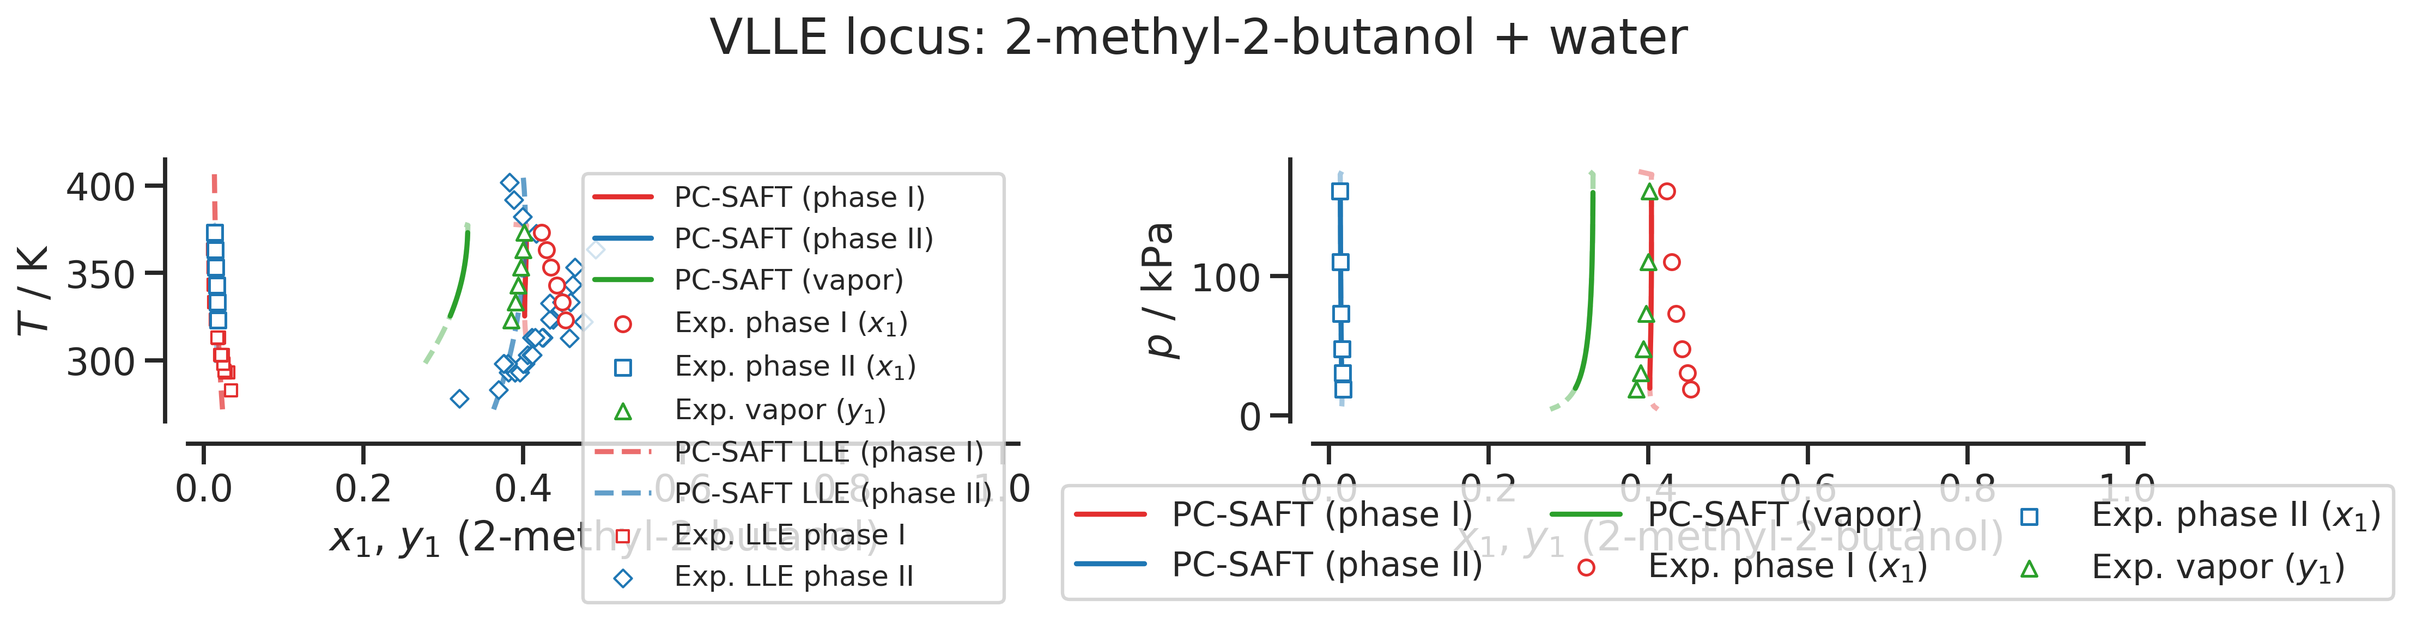
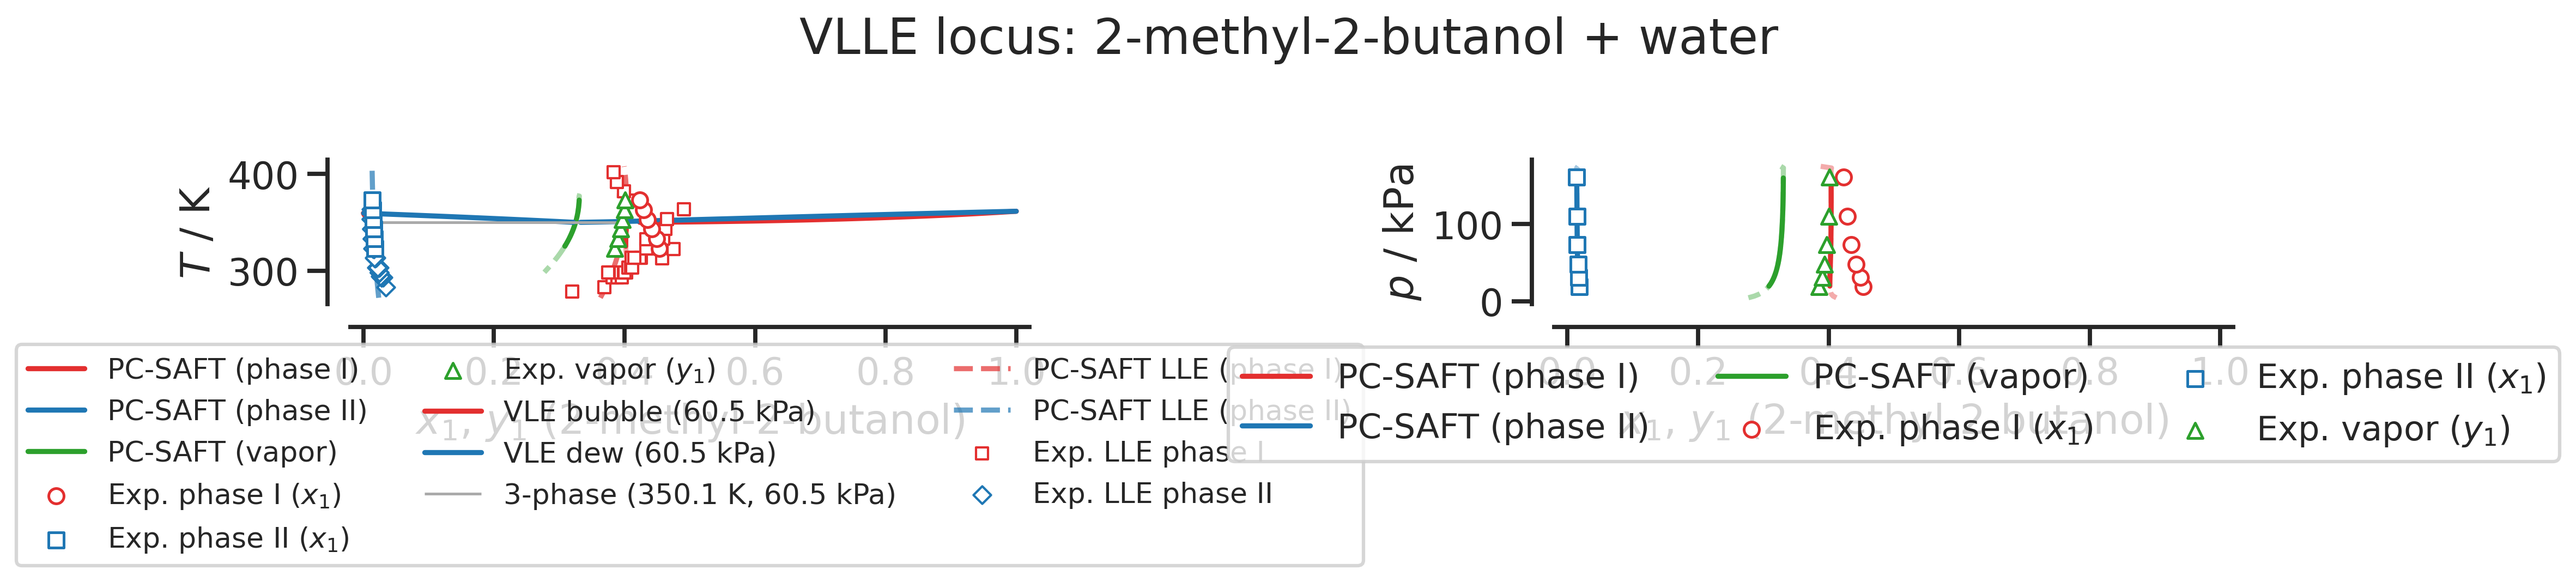
a

Changed region(s): [[0.0, 0.2781, 0.9984, 0.9888], [0.2808, 0.0309, 0.7176, 0.0927], [0.0, 0.4635, 0.0312, 0.4944]]

diff --git a/src/fit_pcsaft/_binary/_plot.py b/src/fit_pcsaft/_binary/_plot.py
@@ -1507,7 +1507,47 @@ def _plot_vlle(result, path, temperature_unit, pressure_unit):
     _draw_locus_and_scatter(ax_T, T_exp, T_loc,      "$T$ / K")
     _draw_locus_and_scatter(ax_P, P_exp, P_loc_plot, f"$p$ / {p_lbl}")
 
-    # LLE binodal on the T-x panel (when LLE data is present)
+    # --- VLE continuation above the heteroazeotrope (T-x panel, median pressure) ---
+    if result._record1 is not None and result._record2 is not None:
+        P_ref_pa  = float(np.nanmedian(P_exp)) * p_scale   # Pa
+        P_ref_obj = P_ref_pa * si.PASCAL
+        T_ref_init = float(np.nanmedian(T_exp))             # K
+        ha_ref = _find_heteroazeotrope(
+            result, P_ref_obj, x_I_init, x_II_init, T_ref_init
+        )
+        if ha_ref is not None:
+            T_het, x1_I_het, x1_II_het, _y1_het = ha_ref
+            xb1, Tb1, yd1 = _vle_branch_isobaric(
+                result, P_ref_obj, x1_I_het, 1e-5, T_het, npoints=80
+            )
+            xb2, Tb2, yd2 = _vle_branch_isobaric(
+                result, P_ref_obj, x1_II_het, 1.0 - 1e-5, T_het, npoints=80
+            )
+
+            def _above_het_vlle(xs, Ts, ys=None):
+                mask = [t >= T_het for t in Ts]
+                xf = [x for x, ok in zip(xs, mask) if ok]
+                Tf = [t for t, ok in zip(Ts, mask) if ok]
+                return (xf, Tf, [y for y, ok in zip(ys, mask) if ok]) if ys else (xf, Tf)
+
+            xb1, Tb1, yd1 = _above_het_vlle(xb1, Tb1, yd1)
+            xb2, Tb2, yd2 = _above_het_vlle(xb2, Tb2, yd2)
+
+            _p_ref_lbl = f"{P_ref_pa / p_scale:.1f} {p_lbl}"
+            if xb1:
+                ax_T.plot(xb1, Tb1, color=_EXP_COLOR_1, linestyle="-",
+                          label=f"VLE bubble ({_p_ref_lbl})")
+            if xb2:
+                ax_T.plot(xb2, Tb2, color=_EXP_COLOR_1, linestyle="-")
+            if yd1:
+                ax_T.plot(yd1, Tb1[:len(yd1)], color=_EXP_COLOR_2, linestyle="-",
+                          label=f"VLE dew ({_p_ref_lbl})")
+            if yd2:
+                ax_T.plot(yd2, Tb2[:len(yd2)], color=_EXP_COLOR_2, linestyle="-")
+            ax_T.hlines(T_het, x1_I_het, x1_II_het, colors=_GRAY, linewidth=1.2,
+                        linestyle="-", label=f"3-phase ({T_het:.1f} K, {_p_ref_lbl})")
+
+    # --- LLE binodal on the T-x panel (when LLE data is present) ---------------
     has_lle = "lle_T" in data
     if has_lle and result._record1 is not None and result._record2 is not None:
         lle_T = data["lle_T"].astype(float) * t_scale
@@ -1517,10 +1557,6 @@ def _plot_vlle(result, path, temperature_unit, pressure_unit):
                    + (np.nanmean(data["lle_x1_II"]) if "lle_x1_II" in data else 0.90)),
             0.05, 0.95,
         ))
-        # Upper T for the binodal: use the LLE data max (not VLLE temps), plus
-        # a small pad so the UCST region is visible.  _lle_curve_kij_T extends
-        # 500 K past its T_max argument to find the UCST naturally, so we clip
-        # the returned curve to lle_T.max() + T_pad to avoid bogus extrapolation.
         _lle_T_max = float(lle_T.max())
         T_c, x_I_c, x_II_c = _lle_curve_kij_T(
             result, z1,
@@ -1528,8 +1564,6 @@ def _plot_vlle(result, path, temperature_unit, pressure_unit):
             _lle_T_max + T_pad,
             npoints=301,
         )
-        # Clip to the LLE data range + small margin so we never plot hundreds of
-        # Kelvin of unconstrained extrapolation.
         _T_max_show = _lle_T_max + T_pad
         if len(T_c) > 0:
             _T_c = np.asarray(T_c)
@@ -1537,26 +1571,45 @@ def _plot_vlle(result, path, temperature_unit, pressure_unit):
             T_c    = _T_c[_keep]
             x_I_c  = np.asarray(x_I_c)[_keep]
             x_II_c = np.asarray(x_II_c)[_keep]
+
+        # Match LLE branch colors to the VLLE locus phase convention.
+        # _lle_curve_kij_T returns x_I_c = min-x1 branch, x_II_c = max-x1 branch.
+        # xI_loc follows the experimental phase-I label, which may be the large-x1 branch.
+        # Swap so that "phase I" color always refers to the same physical phase.
+        if valid.any() and len(x_I_c) > 0:
+            _mean_vlle_I = float(np.nanmean(xI_loc[valid]))
+            _swap_lle = (
+                abs(float(np.nanmean(x_II_c)) - _mean_vlle_I)
+                < abs(float(np.nanmean(x_I_c)) - _mean_vlle_I)
+            )
+        else:
+            _swap_lle = False
+        _lle_I_curve = x_II_c if _swap_lle else x_I_c
+        _lle_II_curve = x_I_c if _swap_lle else x_II_c
+        _lle_I_key    = "lle_x1_II" if _swap_lle else "lle_x1_I"
+        _lle_II_key   = "lle_x1_I"  if _swap_lle else "lle_x1_II"
+
         if len(T_c) > 0 and np.max(np.abs(x_I_c - x_II_c)) > 1e-4:
-            ax_T.plot(x_I_c, T_c, color=_EXP_COLOR_1, linestyle="--",
+            ax_T.plot(_lle_I_curve, T_c, color=_EXP_COLOR_1, linestyle="--",
                       label="PC-SAFT LLE (phase I)", alpha=0.7)
-            ax_T.plot(x_II_c, T_c, color=_EXP_COLOR_2, linestyle="--",
+            ax_T.plot(_lle_II_curve, T_c, color=_EXP_COLOR_2, linestyle="--",
                       label="PC-SAFT LLE (phase II)", alpha=0.7)
-        if "lle_x1_I" in data:
-            vals = data["lle_x1_I"].astype(float)
+        if _lle_I_key in data:
+            vals = data[_lle_I_key].astype(float)
             valid_lle = ~np.isnan(vals)
             ax_T.scatter(vals[valid_lle], lle_T[valid_lle],
                          s=30, marker="s", facecolors="white",
                          edgecolors=_EXP_COLOR_1, linewidths=1.0, zorder=4,
                          label="Exp. LLE phase I")
-        if "lle_x1_II" in data:
-            vals = data["lle_x1_II"].astype(float)
+        if _lle_II_key in data:
+            vals = data[_lle_II_key].astype(float)
             valid_lle = ~np.isnan(vals)
             ax_T.scatter(vals[valid_lle], lle_T[valid_lle],
                          s=30, marker="D", facecolors="white",
                          edgecolors=_EXP_COLOR_2, linewidths=1.0, zorder=4,
                          label="Exp. LLE phase II")
-        ax_T.legend(fontsize="x-small")
+
+    ax_T.legend(fontsize="x-small", loc="upper center", bbox_to_anchor=(0.5, -0.18), ncol=3)
 
     fig.suptitle(f"VLLE locus: {result.id1} + {result.id2}", y=1.01)
     plt.tight_layout(rect=[0, 0.15, 1, 1])
